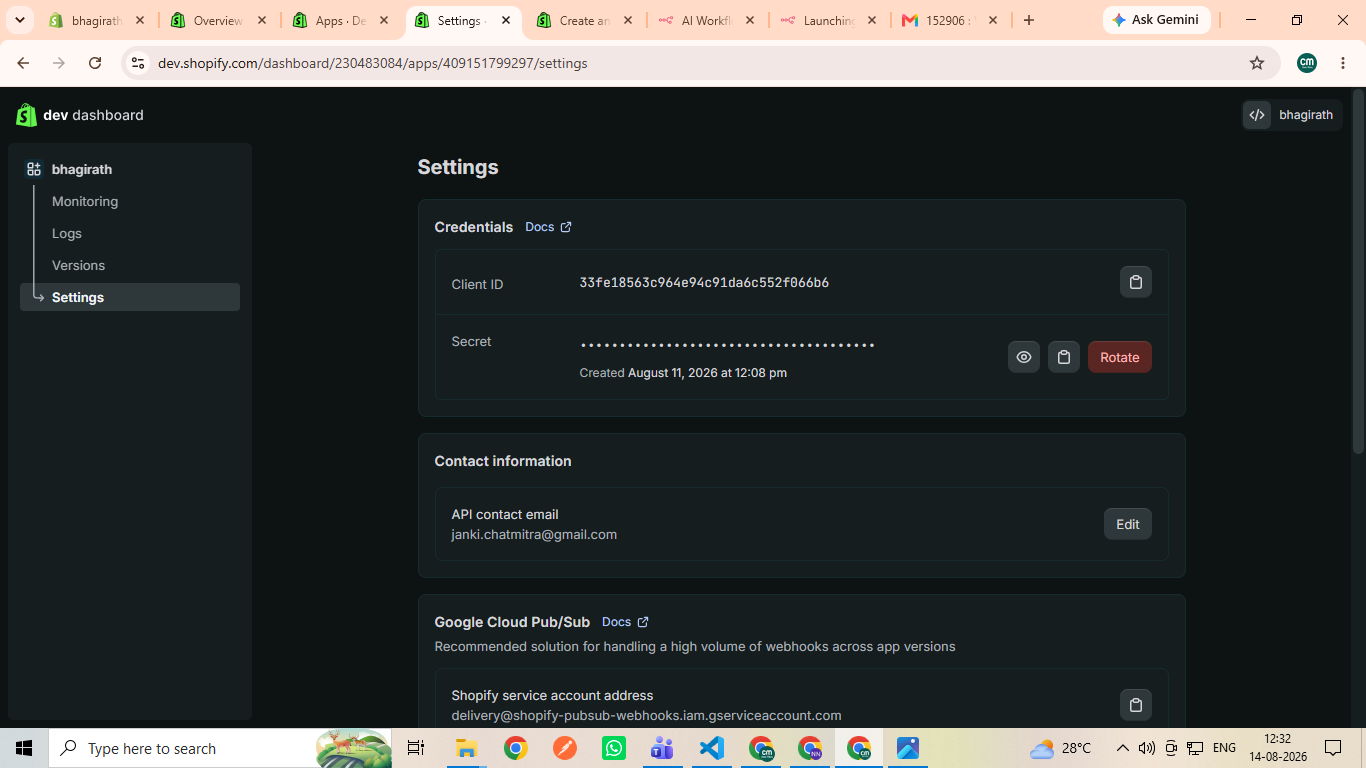
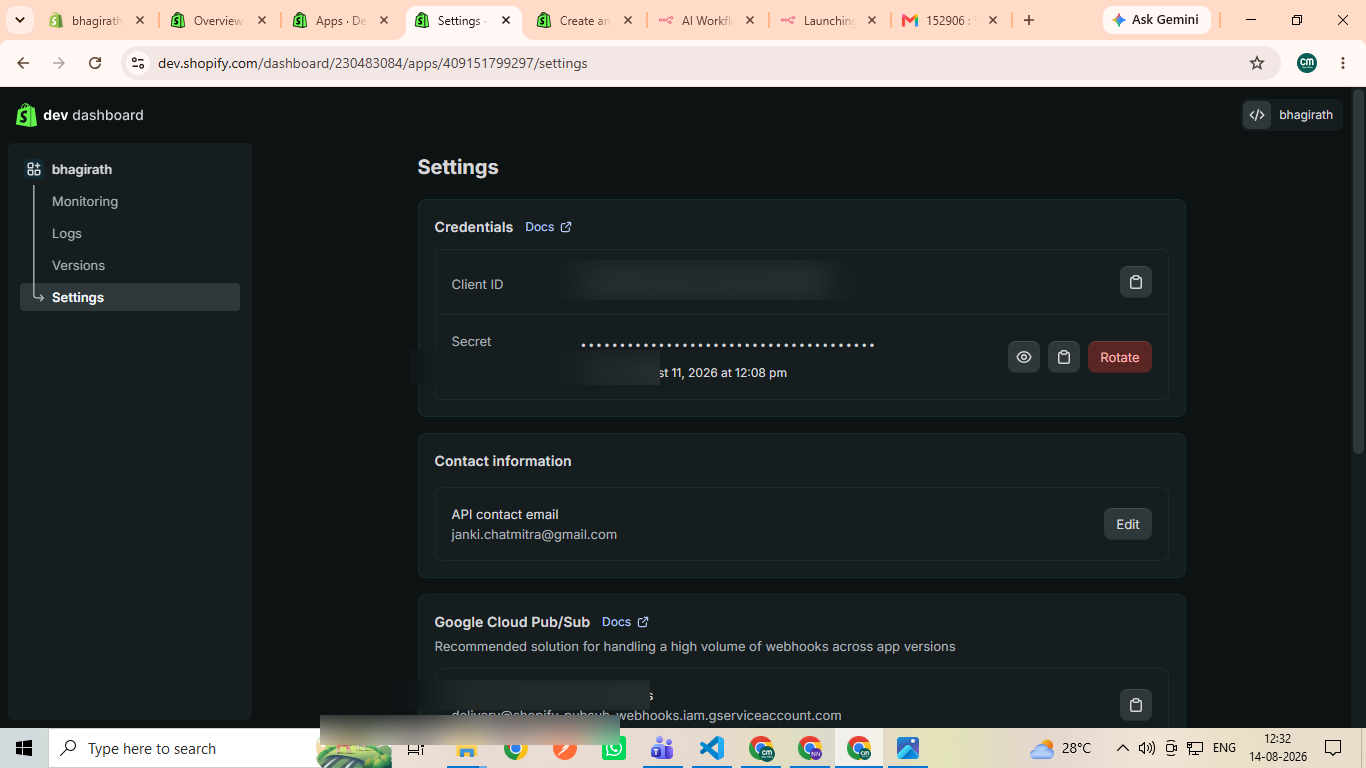
feat: update Shopify onboarding steps with new images and improved instructions

Changed region(s): [[0.2152, 0.875, 0.4612, 0.9688], [0.4305, 0.3438, 0.6149, 0.375], [0.4305, 0.4688, 0.4919, 0.5]]

diff --git a/src/data/credentials-data.ts b/src/data/credentials-data.ts
@@ -2993,62 +2993,302 @@ export const CREDENTIAL_PROVIDERS: Record<string, CredentialProvider> = {
     steps: [
       {
         image: "/credentials/shopify/step1.webp",
-        title: "Open Workflow Mitra & Click + New Credential",
-        description: "Navigate to https://app.workflowmitra.com/credentials and click '+ New Credential' at top right.",
+        title: "Select Shopify Provider",
+        description: "In Workflow Mitra Credentials modal, locate and select the Shopify provider card.",
         addressUrl: "https://app.workflowmitra.com/credentials",
         hotspot: {
           target: "image",
-          top: "19%",
-          left: "91%",
-          popoverTop: "35%",
-          popoverLeft: "25%",
-          title: "Step 1: Click + New Credential",
-          detail: "Click '+ New Credential' button to open provider modal.",
+          top: "47%",
+          left: "65.5%",
+          popoverTop: "38%",
+          popoverLeft: "50%",
+          title: "Step 1: Select Shopify 🛍",
+          detail: "Click Shopify card in the provider list.",
         },
       },
       {
-        image: "/credentials/shopify/step1.webp",
-        title: "Select Zoho CRM Provider",
-        description: "Navigate to https://app.workflowmitra.com/credentials, click '+ New Credential' at the top right, and select 'Zoho CRM' from the CRM & Sales provider list.",
+        image: "/credentials/shopify/step2.webp",
+        title: "View Shopify Credential Setup Form",
+        description: "View the required fields: Credential Name, Admin API access token (shpat_••••), and Store URL.",
         addressUrl: "https://app.workflowmitra.com/credentials",
         hotspot: {
           target: "image",
-          top: "34%",
-          left: "68%",
-          popoverTop: "35%",
-          popoverLeft: "25%",
-          title: "Step 2: Select Zoho CRM Provider",
-          detail: "Click 'Zoho CRM' from the New Credential provider dialog.",
+          top: "55.8%",
+          left: "58.5%",
+          popoverTop: "38%",
+          popoverLeft: "50%",
+          title: "Step 2: Access Token Field 🔑",
+          detail: "Focus and paste your Admin API token here.",
         },
       },
       {
-        image: "/credentials/step2.webp",
-        title: "Configure API Scopes & Install",
-        description: "Select read_orders, write_orders, read_products and click Install App.",
+        image: "/credentials/shopify/step3.webp",
+        title: "Log in to Shopify",
+        description: "Open your browser, navigate to shopify.com/in/store-login, and click the 'Log in' button.",
+        addressUrl: "https://shopify.com/in/store-login",
+        hotspot: {
+          target: "image",
+          top: "52%",
+          left: "49.5%",
+          popoverTop: "38%",
+          popoverLeft: "50%",
+          title: "Step 3: Log in to Shopify 🌐",
+          detail: "Click Log in to access your store.",
+        },
+      },
+      {
+        image: "/credentials/shopify/step4.webp",
+        title: "Open Store Settings",
+        description: "In your Shopify Admin Dashboard, click the 'Settings' gear icon at the bottom of the left sidebar.",
         addressUrl: "https://admin.shopify.com",
         hotspot: {
           target: "image",
-          top: "50%",
-          left: "18%",
-          popoverTop: "65%",
-          popoverLeft: "45%",
-          title: "Step 3: Install Custom App ⚡",
-          detail: "Click Install to reveal Access Token.",
+          top: "76%",
+          left: "6.5%",
+          popoverTop: "40%",
+          popoverLeft: "50%",
+          title: "Step 4: Open Settings ⚙",
+          detail: "Click Settings at bottom left.",
         },
       },
       {
-        image: "/credentials/step3.webp",
-        title: "Copy Admin API Token",
-        description: "Copy Admin API Access Token (shpat_...) and save in Workflow Mitra.",
-        addressUrl: "https://app.workflowmitra.com/credentials",
+        image: "/credentials/shopify/step5.webp",
+        title: "Navigate to Apps in Settings",
+        description: "In the Settings sidebar menu, scroll down and click on the 'Apps' section.",
+        addressUrl: "https://admin.shopify.com/settings/general",
         hotspot: {
           target: "image",
-          top: "21%",
-          left: "92%",
-          popoverTop: "50%",
+          top: "59.5%",
+          left: "17%",
+          popoverTop: "40%",
           popoverLeft: "50%",
-          title: "Step 4: Save Token 🔐",
-          detail: "Save Shopify credentials securely.",
+          title: "Step 5: Select Apps 📦",
+          detail: "Click Apps in the left settings menu.",
+        },
+      },
+      {
+        image: "/credentials/shopify/step6.webp",
+        title: "Click Develop Apps",
+        description: "On the Apps settings page, click the 'Develop apps' button in the top right corner.",
+        addressUrl: "https://admin.shopify.com/settings/apps",
+        hotspot: {
+          target: "image",
+          top: "24.8%",
+          left: "72.8%",
+          popoverTop: "38%",
+          popoverLeft: "50%",
+          title: "Step 6: Develop Apps 🛠",
+          detail: "Click Develop apps button.",
+        },
+      },
+      {
+        image: "/credentials/shopify/step7.webp",
+        title: "Open Dev Dashboard",
+        description: "Click the dark 'Build apps in Dev Dashboard' button to enter the developer environment.",
+        addressUrl: "https://admin.shopify.com/settings/apps/development",
+        hotspot: {
+          target: "image",
+          top: "44.5%",
+          left: "42.2%",
+          popoverTop: "40%",
+          popoverLeft: "50%",
+          title: "Step 7: Dev Dashboard 🚀",
+          detail: "Click Build apps in Dev Dashboard.",
+        },
+      },
+      {
+        image: "/credentials/shopify/step8.webp",
+        title: "Click Create App",
+        description: "In the Dev Dashboard apps overview, click the 'Create app' link on the bottom banner.",
+        addressUrl: "https://dev.shopify.com/dashboard",
+        hotspot: {
+          target: "image",
+          top: "86.8%",
+          left: "78.5%",
+          popoverTop: "40%",
+          popoverLeft: "50%",
+          title: "Step 8: Create App ➕",
+          detail: "Click Create app link.",
+        },
+      },
+      {
+        image: "/credentials/shopify/step9.webp",
+        title: "Name Your App & Create",
+        description: "Enter an App name (e.g. 'demo') and click the 'Create' button.",
+        addressUrl: "https://dev.shopify.com/dashboard/apps/new",
+        hotspot: {
+          target: "image",
+          top: "42.2%",
+          left: "83.2%",
+          popoverTop: "40%",
+          popoverLeft: "50%",
+          title: "Step 9: Name & Create 📝",
+          detail: "Click Create button to create your app.",
+        },
+      },
+      {
+        image: "/credentials/shopify/step10.webp",
+        title: "Open API Access Scopes",
+        description: "Under API access, click the 'Select scopes' link to choose required permissions.",
+        addressUrl: "https://dev.shopify.com/dashboard/apps",
+        hotspot: {
+          target: "image",
+          top: "41.5%",
+          left: "80.5%",
+          popoverTop: "40%",
+          popoverLeft: "50%",
+          title: "Step 10: Select Scopes 🔍",
+          detail: "Click Select scopes link.",
+        },
+      },
+      {
+        image: "/credentials/shopify/step11.webp",
+        title: "Configure API Access",
+        description: "Review your API access settings and click 'Select scopes' to customize access rules.",
+        addressUrl: "https://dev.shopify.com/dashboard/apps",
+        hotspot: {
+          target: "image",
+          top: "41.5%",
+          left: "80.5%",
+          popoverTop: "40%",
+          popoverLeft: "50%",
+          title: "Step 11: Configure Access ⚙",
+          detail: "Select scopes for your app.",
+        },
+      },
+      {
+        image: "/credentials/shopify/step12.webp",
+        title: "Select Admin API Category",
+        description: "In the Select scopes modal, open the API dropdown and choose 'Admin API'.",
+        addressUrl: "https://dev.shopify.com/dashboard/apps",
+        hotspot: {
+          target: "image",
+          top: "34.8%",
+          left: "29.5%",
+          popoverTop: "40%",
+          popoverLeft: "50%",
+          title: "Step 12: Admin API 🔑",
+          detail: "Select Admin API from the dropdown.",
+        },
+      },
+      {
+        image: "/credentials/shopify/step13.webp",
+        title: "Check Required Scopes & Click Done",
+        description: "Check the necessary scopes (e.g. read_products, write_products) and click 'Done' in bottom right.",
+        addressUrl: "https://dev.shopify.com/dashboard/apps",
+        hotspot: {
+          target: "image",
+          top: "82.5%",
+          left: "74.2%",
+          popoverTop: "40%",
+          popoverLeft: "50%",
+          title: "Step 13: Click Done ✅",
+          detail: "Click Done button to save selected scopes.",
+        },
+      },
+      {
+        image: "/credentials/shopify/step14.webp",
+        title: "Click Release Version",
+        description: "On the version configuration screen, click the 'Release' button in the bottom right corner.",
+        addressUrl: "https://dev.shopify.com/dashboard/apps",
+        hotspot: {
+          target: "image",
+          top: "88.5%",
+          left: "83%",
+          popoverTop: "40%",
+          popoverLeft: "50%",
+          title: "Step 14: Click Release 🚀",
+          detail: "Click Release corner button.",
+        },
+      },
+      {
+        image: "/credentials/shopify/step15.webp",
+        title: "Confirm Release Modal",
+        description: "In the 'Release this new version?' modal dialog, click the dark 'Release' button to confirm.",
+        addressUrl: "https://dev.shopify.com/dashboard/apps",
+        hotspot: {
+          target: "image",
+          top: "71.5%",
+          left: "73.5%",
+          popoverTop: "40%",
+          popoverLeft: "50%",
+          title: "Step 15: Confirm Release ✨",
+          detail: "Click Release confirmation button.",
+        },
+      },
+      {
+        image: "/credentials/shopify/step16.webp",
+        title: "Click Install App",
+        description: "In the Dev Dashboard App Overview page under Installs, click the 'Install app' button.",
+        addressUrl: "https://dev.shopify.com/dashboard/apps",
+        hotspot: {
+          target: "image",
+          top: "29.8%",
+          left: "89.5%",
+          popoverTop: "38%",
+          popoverLeft: "50%",
+          title: "Step 16: Install App 📲",
+          detail: "Click Install app button.",
+        },
+      },
+      {
+        image: "/credentials/shopify/step17.webp",
+        title: "Select Store for Installation",
+        description: "Choose your target development store from the list to begin the installation flow.",
+        addressUrl: "https://admin.shopify.com/store-select",
+        hotspot: {
+          target: "image",
+          top: "48.5%",
+          left: "50%",
+          popoverTop: "38%",
+          popoverLeft: "50%",
+          title: "Step 17: Choose Store 🏪",
+          detail: "Click your store card to proceed.",
+        },
+      },
+      {
+        image: "/credentials/shopify/step18.webp",
+        title: "Authorize & Install App",
+        description: "Review app permissions on the Shopify authorization page and click the dark 'Install' button.",
+        addressUrl: "https://admin.shopify.com/store/app/grant",
+        hotspot: {
+          target: "image",
+          top: "82.5%",
+          left: "77.5%",
+          popoverTop: "40%",
+          popoverLeft: "50%",
+          title: "Step 18: Authorize Install 🛡",
+          detail: "Click Install corner button.",
+        },
+      },
+      {
+        image: "/credentials/shopify/step19.webp",
+        title: "Open App Settings",
+        description: "Return to your Dev Dashboard app overview and click 'Settings' in the left sidebar.",
+        addressUrl: "https://dev.shopify.com/dashboard/apps",
+        hotspot: {
+          target: "image",
+          top: "38.8%",
+          left: "5.5%",
+          popoverTop: "38%",
+          popoverLeft: "50%",
+          title: "Step 19: App Settings ⚙",
+          detail: "Click Settings in the left sidebar.",
+        },
+      },
+      {
+        image: "/credentials/shopify/Step20.png",
+        title: "Copy Client ID & Secret Credentials",
+        description: "Under Credentials, click the copy icon next to your Client ID and Secret key.",
+        addressUrl: "https://dev.shopify.com/dashboard/apps/settings",
+        hotspot: {
+          target: "image",
+          top: "36.8%",
+          left: "83.2%",
+          popoverTop: "38%",
+          popoverLeft: "50%",
+          title: "Step 20: Copy Credentials 🔐",
+          detail: "Click copy icon next to Client ID and Secret.",
         },
       },
     ],
